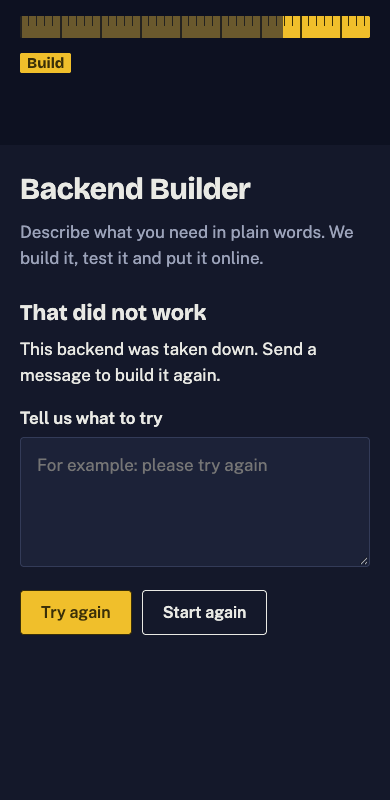
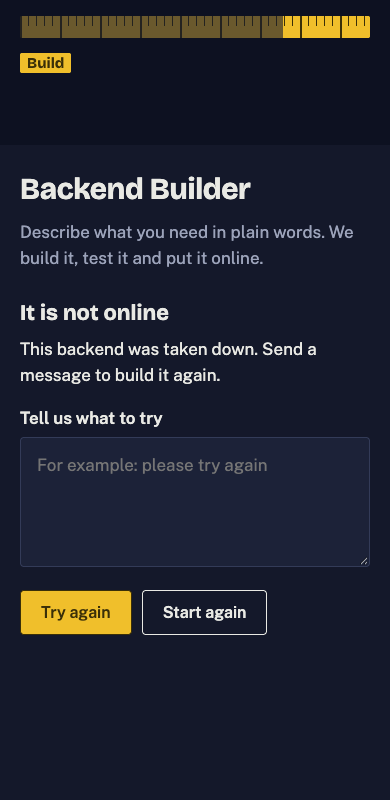
S6.2: head the "not online" screen "It is not online"
A build taken down on purpose is in the failed state (decision 0059),
so the screen that said "That did not work" now says "It is not
online", which fits both a failed build and one taken down; the
message under it says which. Joseph's browser check waits for the new
words (eval/experiments/browser_check.py line 27). Eric's choice.

Checked free: 6 web tests pass; check_page.py again on all 18 screens
(phone, desktop, dark), no page errors, no sideways scrolling.

Changed region(s): [[0.0308, 0.375, 0.5231, 0.4062]]

diff --git a/web/index.html b/web/index.html
@@ -167,7 +167,8 @@ function screen(s) {
     el("button", { className: "quiet", textContent: "Take it offline",  // decision 0059: the data stays, and a message brings it back
       onclick: () => confirm("Take your backend offline? Its data is kept, and a message brings it back.") && act(() => api(`/${id}/take-down`, {})) }),
     el("button", { className: "quiet", textContent: "Build something else", onclick: () => { location.href = "/"; } }));
-  return card(el("h2", { textContent: "That did not work" }), el("p", { textContent: last.error || "Something went wrong." }),
+  return card(el("h2", { textContent: "It is not online" }),  // a failed build, or one taken down: the message says which
+    el("p", { textContent: last.error || "Something went wrong." }),
     ...box("Tell us what to try", "For example: please try again", "Try again", t => api(`/${id}/messages`, { message: t })),
     el("button", { className: "quiet", textContent: "Start again", onclick: () => { location.href = "/"; } }));
 }

diff --git a/eval/experiments/browser_check.py b/eval/experiments/browser_check.py
@@ -24,7 +24,7 @@ with sync_playwright() as p:
     g.fill("textarea", "Orders should also have a pickup date.")
     g.click("button:has-text('Send')"); time.sleep(6); g.screenshot(path=f"{OUT}/4_building.png", full_page=True)
     print("progress:", g.locator("#steps li").all_inner_texts())
-    g.wait_for_selector("text=/Your backend is live|That did not work/", timeout=400000); g.screenshot(path=f"{OUT}/5_result.png", full_page=True)
+    g.wait_for_selector("text=/Your backend is live|It is not online/", timeout=400000); g.screenshot(path=f"{OUT}/5_result.png", full_page=True)
     print("result:", g.inner_text("h2 >> nth=0"))
     print(g.inner_text("#view")[:900])
     wide = g.evaluate("document.documentElement.scrollWidth <= innerWidth"); print("no sideways scroll on a phone:", wide)

diff --git a/docs/decisions/0060-michaels-design-on-the-live-page.md b/docs/decisions/0060-michaels-design-on-the-live-page.md
@@ -25,6 +25,6 @@ The S6.1 walkthrough found two pages. The live link serves `web/index.html`, Jos
 - Left out of Michael's page: the recorded demo and its "Test setup" switches (plan as cards or sentences, technical log); one question per screen with answer choices (the live questions come without choices); the pretend "Try it" table; the downloads. Playing back a recorded session is S4.2, still Michael's. His page is in git history (commit `7e3a88d`) to reuse.
 - The plan now shows as cards built from the plan's data, instead of the plain-text plan.
 - The fonts load from Google Fonts. If that is blocked, the page uses the system fonts.
-- A taken-down build shows under "That did not work", with the message that it was taken down (it is in the `failed` state, decision 0059).
+- The screen for the `failed` state is headed "It is not online" (it was "That did not work"), because a build taken down on purpose is also `failed` (decision 0059); the message under it says which. Joseph's browser check waits for the new words.
 - Checked free: `eval/results/walkthrough/part6/new_page/check_page.py` runs the real `web/app.py` and `builder/session.py` with a pretend Claude and a pretend publish, fed the real questions and plan of the bakery build (`eval/results/sessions/bakery_through_the_page.jsonl`), in real Chrome at 390 and 1280 pixels wide and in dark mode. Every screen worked; no page errors; no sideways scrolling; a refresh kept the build; a message sent mid-build reached the builder; take-down worked; clicking an example clears an old error. Not yet checked with a real build. It goes live only after review, the merge to `main`, and Joseph rerunning `setup_server.sh`.
 - Michael still owns `web/index.html` (decision 0049).
